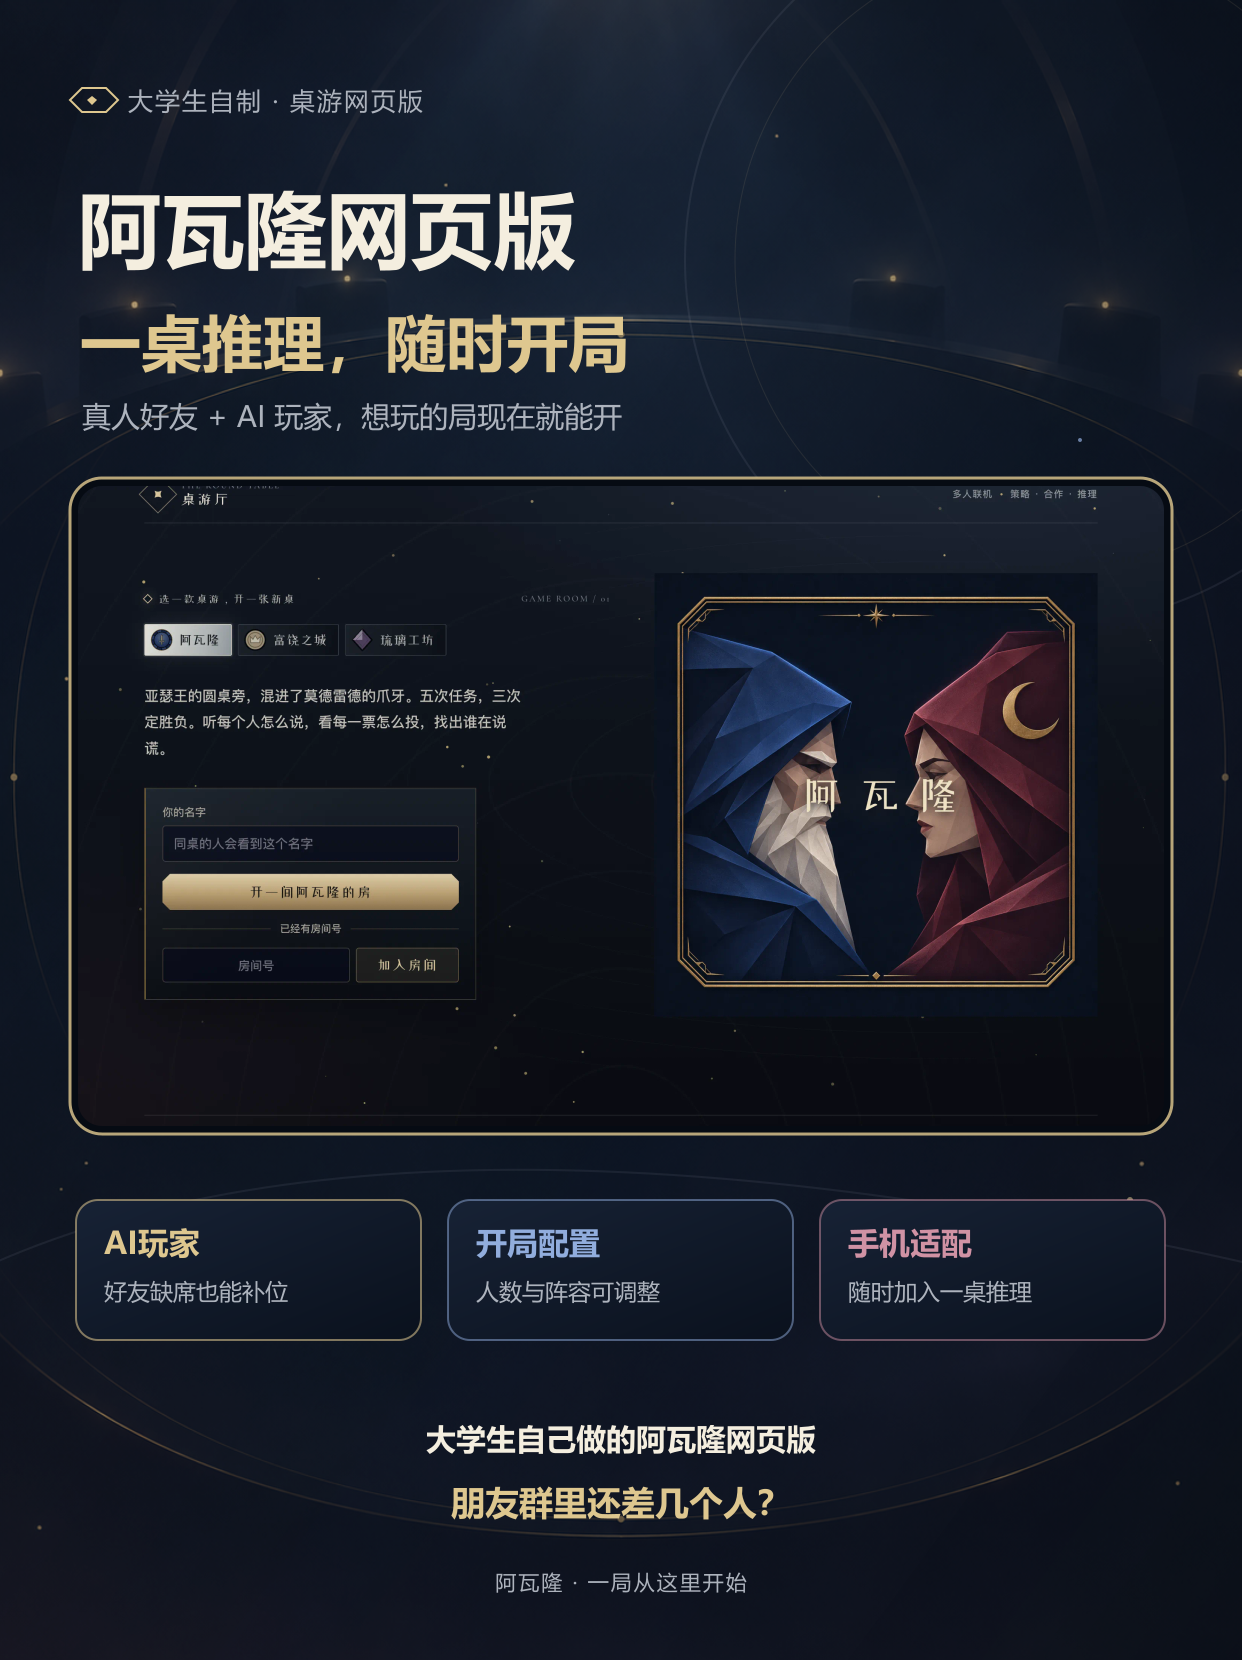
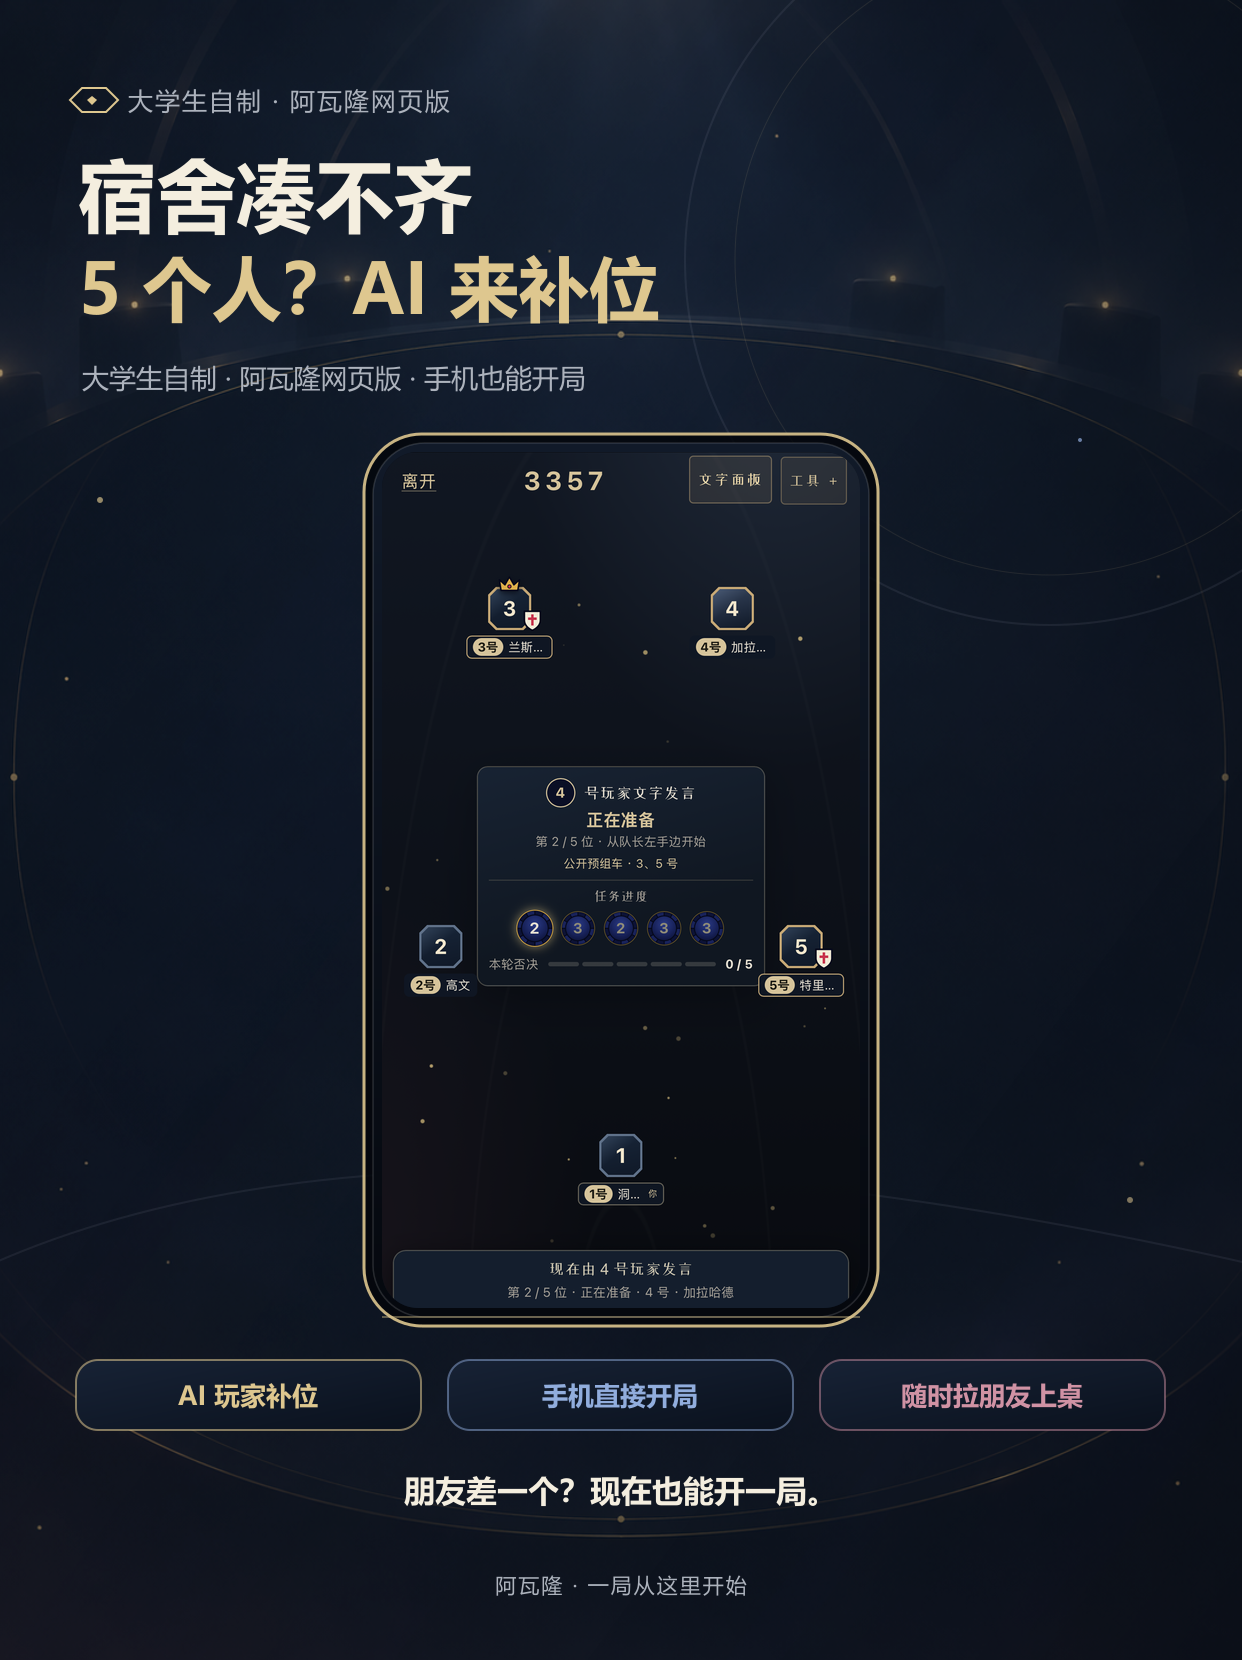
Use mobile screenshots on Avalon promo covers

diff --git a/docs/marketing/xiaohongshu-avalon-gameplay/README.md b/docs/marketing/xiaohongshu-avalon-gameplay/README.md
@@ -4,8 +4,8 @@
 
 ## 轮播顺序
 
-1. **01-main-cover**：品牌首图，突出“阿瓦隆网页版，一桌推理，随时开局”。
-2. **02-ai-intro**：展示真人缺席时由 AI 玩家补位。
+1. **01-main-cover**：手机端真实对局桌面，突出“宿舍凑不齐 5 个人？AI 来补位”。
+2. **02-ai-intro**：手机端开局设置页，展示添加机器人补位的流程。
 3. **03-pain-point**：宿舍群聊情景，讲清“总卡在差一个人”的痛点。
 4. **04-identity**：身份揭晓与阵营推理。
 5. **05-lobby**：游戏大厅与多款桌游入口。
@@ -26,3 +26,4 @@
 还在继续打磨，想请桌游玩家、产品和设计方向的朋友帮我看看：你觉得最影响开局体验的细节是什么？
 
 #阿瓦隆 #桌游 #大学生项目 #独立开发 #网页游戏 #AI玩家
+
